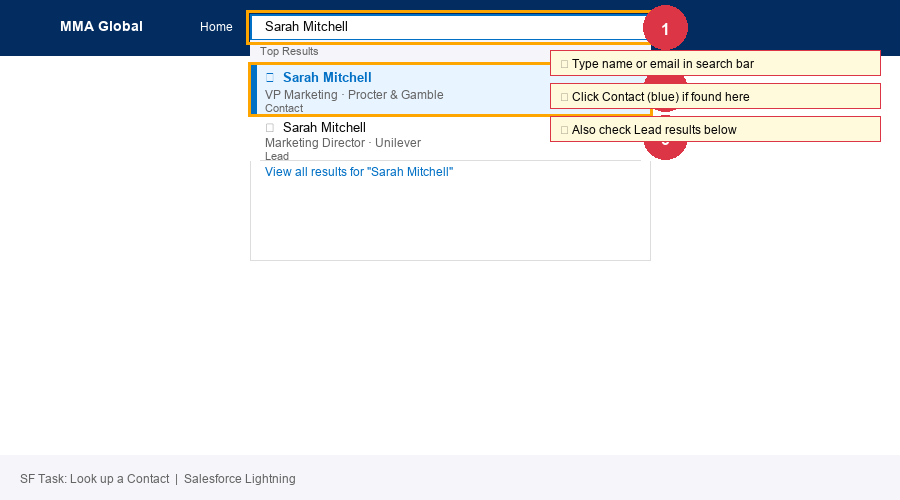
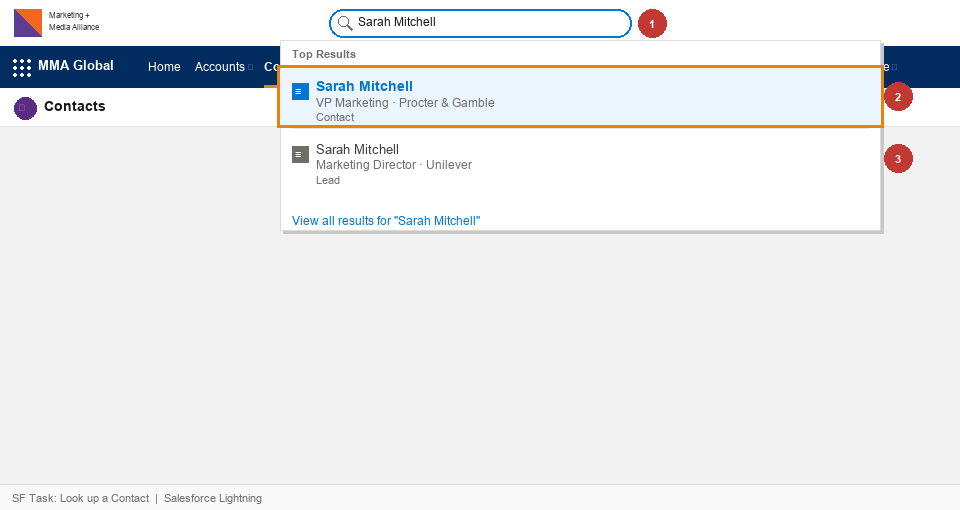
Update SF screenshots to match real MMA instance; add jump-to search

Changed region(s): [[0.0, 0.0, 1.0, 0.48], [0.0, 0.93, 0.3111, 0.99]]

diff --git a/index.html b/index.html
@@ -61,6 +61,88 @@
     .sidebar-nav::-webkit-scrollbar-track { background: transparent; }
     .sidebar-nav::-webkit-scrollbar-thumb { background: rgba(255,255,255,0.2); border-radius: 2px; }
 
+    /* ── Search ── */
+    .search-wrap {
+      padding: 12px 14px;
+      border-bottom: 1px solid rgba(255,255,255,0.1);
+      position: relative;
+    }
+    .search-input {
+      width: 100%;
+      background: rgba(255,255,255,0.1);
+      border: 1px solid rgba(255,255,255,0.18);
+      border-radius: 6px;
+      padding: 7px 10px 7px 32px;
+      font-size: 13px;
+      color: #fff;
+      outline: none;
+      transition: background 0.15s, border-color 0.15s;
+    }
+    .search-input::placeholder { color: rgba(255,255,255,0.45); }
+    .search-input:focus {
+      background: rgba(255,255,255,0.15);
+      border-color: rgba(255,255,255,0.4);
+    }
+    .search-icon {
+      position: absolute;
+      left: 24px;
+      top: 50%;
+      transform: translateY(-50%);
+      font-size: 13px;
+      color: rgba(255,255,255,0.45);
+      pointer-events: none;
+    }
+    .search-results {
+      display: none;
+      position: absolute;
+      left: 10px;
+      right: 10px;
+      top: calc(100% - 2px);
+      background: #fff;
+      border: 1px solid #E5E7EB;
+      border-radius: 0 0 8px 8px;
+      box-shadow: 0 8px 24px rgba(0,0,0,0.18);
+      z-index: 1000;
+      max-height: 360px;
+      overflow-y: auto;
+    }
+    .search-results.open { display: block; }
+    .sr-item {
+      padding: 10px 14px;
+      cursor: pointer;
+      border-bottom: 1px solid #F3F4F6;
+    }
+    .sr-item:last-child { border-bottom: none; }
+    .sr-item:hover { background: #EBF5FE; }
+    .sr-section {
+      font-size: 10px;
+      font-weight: 700;
+      text-transform: uppercase;
+      letter-spacing: 0.06em;
+      color: #9CA3AF;
+      margin-bottom: 2px;
+    }
+    .sr-heading {
+      font-size: 13px;
+      font-weight: 600;
+      color: #032D60;
+    }
+    .sr-snippet {
+      font-size: 11px;
+      color: #6B7280;
+      margin-top: 2px;
+      white-space: nowrap;
+      overflow: hidden;
+      text-overflow: ellipsis;
+    }
+    .sr-empty {
+      padding: 14px;
+      font-size: 13px;
+      color: #9CA3AF;
+      text-align: center;
+    }
+    mark { background: #FEF9C3; color: inherit; border-radius: 2px; padding: 0 1px; }
+
     .nav-group-label {
       padding: 14px 18px 4px;
       font-size: 10px;
@@ -308,6 +390,12 @@
     <h1>Aaron Sultan<br>Coverage Guide</h1>
     <div class="period">Paternity leave · ~2 weeks</div>
   </div>
+  <div class="search-wrap">
+    <span class="search-icon">🔍</span>
+    <input class="search-input" id="search-input" type="text" placeholder="Search guide..." autocomplete="off" spellcheck="false">
+    <div class="search-results" id="search-results"></div>
+  </div>
+
   <nav class="sidebar-nav">
 
     <div class="nav-group-label">Overview</div>
@@ -474,6 +562,122 @@
       loadContent(path, anchor);
     }
   }
+
+  // ═══ SEARCH ═══════════════════════════════════════════════════════════════════
+
+  // All indexable files: {path, sectionLabel}
+  const ALL_FILES = [
+    { path: 'README.md',                                          label: 'Home & Contacts' },
+    { path: 'QUICK-REFERENCE.md',                                 label: 'Quick Reference' },
+    { path: 'HARD-TASKS-FOR-REVIEW.md',                           label: 'Hard Tasks' },
+    { path: 'sections/01-possible-registration/README.md',        label: 'POSSIBLE Registration' },
+    { path: 'sections/02-pardot-email/README.md',                 label: 'Pardot / Email' },
+    { path: 'sections/03-outreach-sequences/README.md',           label: 'Outreach Sequences' },
+    { path: 'sections/04-salesforce-data/README.md',              label: 'Salesforce Data' },
+    { path: 'sections/05-analytics-reporting/README.md',          label: 'Analytics & Reporting' },
+    { path: 'sections/06-event-webinar-management/README.md',     label: 'Events & Webinars' },
+    { path: 'sections/07-member-onboarding/README.md',            label: 'Member Onboarding' },
+    { path: 'sections/08-member-satisfaction-survey/README.md',   label: 'Member Satisfaction' },
+    { path: 'sections/09-access-management/README.md',            label: 'Access Management' },
+    { path: 'sections/10-renewals-support/README.md',             label: 'Renewals Support' },
+    { path: 'sections/11-apollo-database/README.md',              label: 'Apollo Database' },
+    { path: 'sections/12-hubspot-migration/README.md',            label: 'HubSpot Migration' },
+  ];
+
+  // Search index: [{path, label, heading, headingSlug, snippet, level}]
+  let searchIndex = [];
+  let indexBuilt  = false;
+
+  async function buildSearchIndex() {
+    if (indexBuilt) return;
+    const results = await Promise.allSettled(ALL_FILES.map(f => fetch(f.path).then(r => r.ok ? r.text() : '')));
+    results.forEach((r, i) => {
+      if (r.status !== 'fulfilled' || !r.value) return;
+      const { path, label } = ALL_FILES[i];
+      const lines = r.value.split('\n');
+      let lastHeading = '', lastSlug = '', buffer = [];
+
+      const flush = () => {
+        if (lastHeading) {
+          searchIndex.push({
+            path, label, heading: lastHeading, slug: lastSlug,
+            snippet: buffer.filter(l => l.trim() && !l.startsWith('#') && !l.startsWith('!')).slice(0,2).join(' ').replace(/[*_`[\]()]/g,'').substring(0,120)
+          });
+        }
+        buffer = [];
+      };
+
+      for (const line of lines) {
+        const hm = line.match(/^(#{1,3})\s+(.+)/);
+        if (hm) {
+          flush();
+          lastHeading = hm[2].replace(/[*_`]/g,'').trim();
+          lastSlug = lastHeading.toLowerCase().replace(/[^\w\s-]/g,'').replace(/\s+/g,'-');
+          buffer = [];
+        } else {
+          buffer.push(line);
+        }
+      }
+      flush();
+    });
+    indexBuilt = true;
+  }
+
+  function highlight(text, query) {
+    const re = new RegExp(`(${query.replace(/[.*+?^${}()|[\]\\]/g,'\\$&')})`, 'gi');
+    return text.replace(re, '<mark>$1</mark>');
+  }
+
+  function runSearch(query) {
+    const q = query.trim().toLowerCase();
+    const box = document.getElementById('search-results');
+    if (q.length < 2) { box.classList.remove('open'); return; }
+
+    const matches = searchIndex.filter(item =>
+      item.heading.toLowerCase().includes(q) ||
+      item.snippet.toLowerCase().includes(q) ||
+      item.label.toLowerCase().includes(q)
+    ).slice(0, 20);
+
+    if (matches.length === 0) {
+      box.innerHTML = `<div class="sr-empty">No results for "<strong>${query}</strong>"</div>`;
+    } else {
+      box.innerHTML = matches.map(m => `
+        <div class="sr-item" data-path="${m.path}" data-slug="${m.slug}">
+          <div class="sr-section">${m.label}</div>
+          <div class="sr-heading">${highlight(m.heading, query)}</div>
+          ${m.snippet ? `<div class="sr-snippet">${highlight(m.snippet, query)}</div>` : ''}
+        </div>`).join('');
+      box.querySelectorAll('.sr-item').forEach(el => {
+        el.addEventListener('click', () => {
+          const path = el.dataset.path;
+          const slug = el.dataset.slug;
+          const link = document.querySelector(`.nav-link[data-path="${path}"]`);
+          if (link) nav(link, slug); else navByPath(path, slug);
+          box.classList.remove('open');
+          document.getElementById('search-input').value = '';
+        });
+      });
+    }
+    box.classList.add('open');
+  }
+
+  // Wire up search input
+  const searchInput = document.getElementById('search-input');
+  searchInput.addEventListener('focus', () => { buildSearchIndex(); });
+  searchInput.addEventListener('input', e => runSearch(e.target.value));
+  searchInput.addEventListener('keydown', e => {
+    if (e.key === 'Escape') {
+      document.getElementById('search-results').classList.remove('open');
+      searchInput.blur();
+    }
+  });
+  // Close on outside click
+  document.addEventListener('click', e => {
+    if (!e.target.closest('.search-wrap')) {
+      document.getElementById('search-results').classList.remove('open');
+    }
+  });
 
   // Initial load
   loadContent('README.md');
